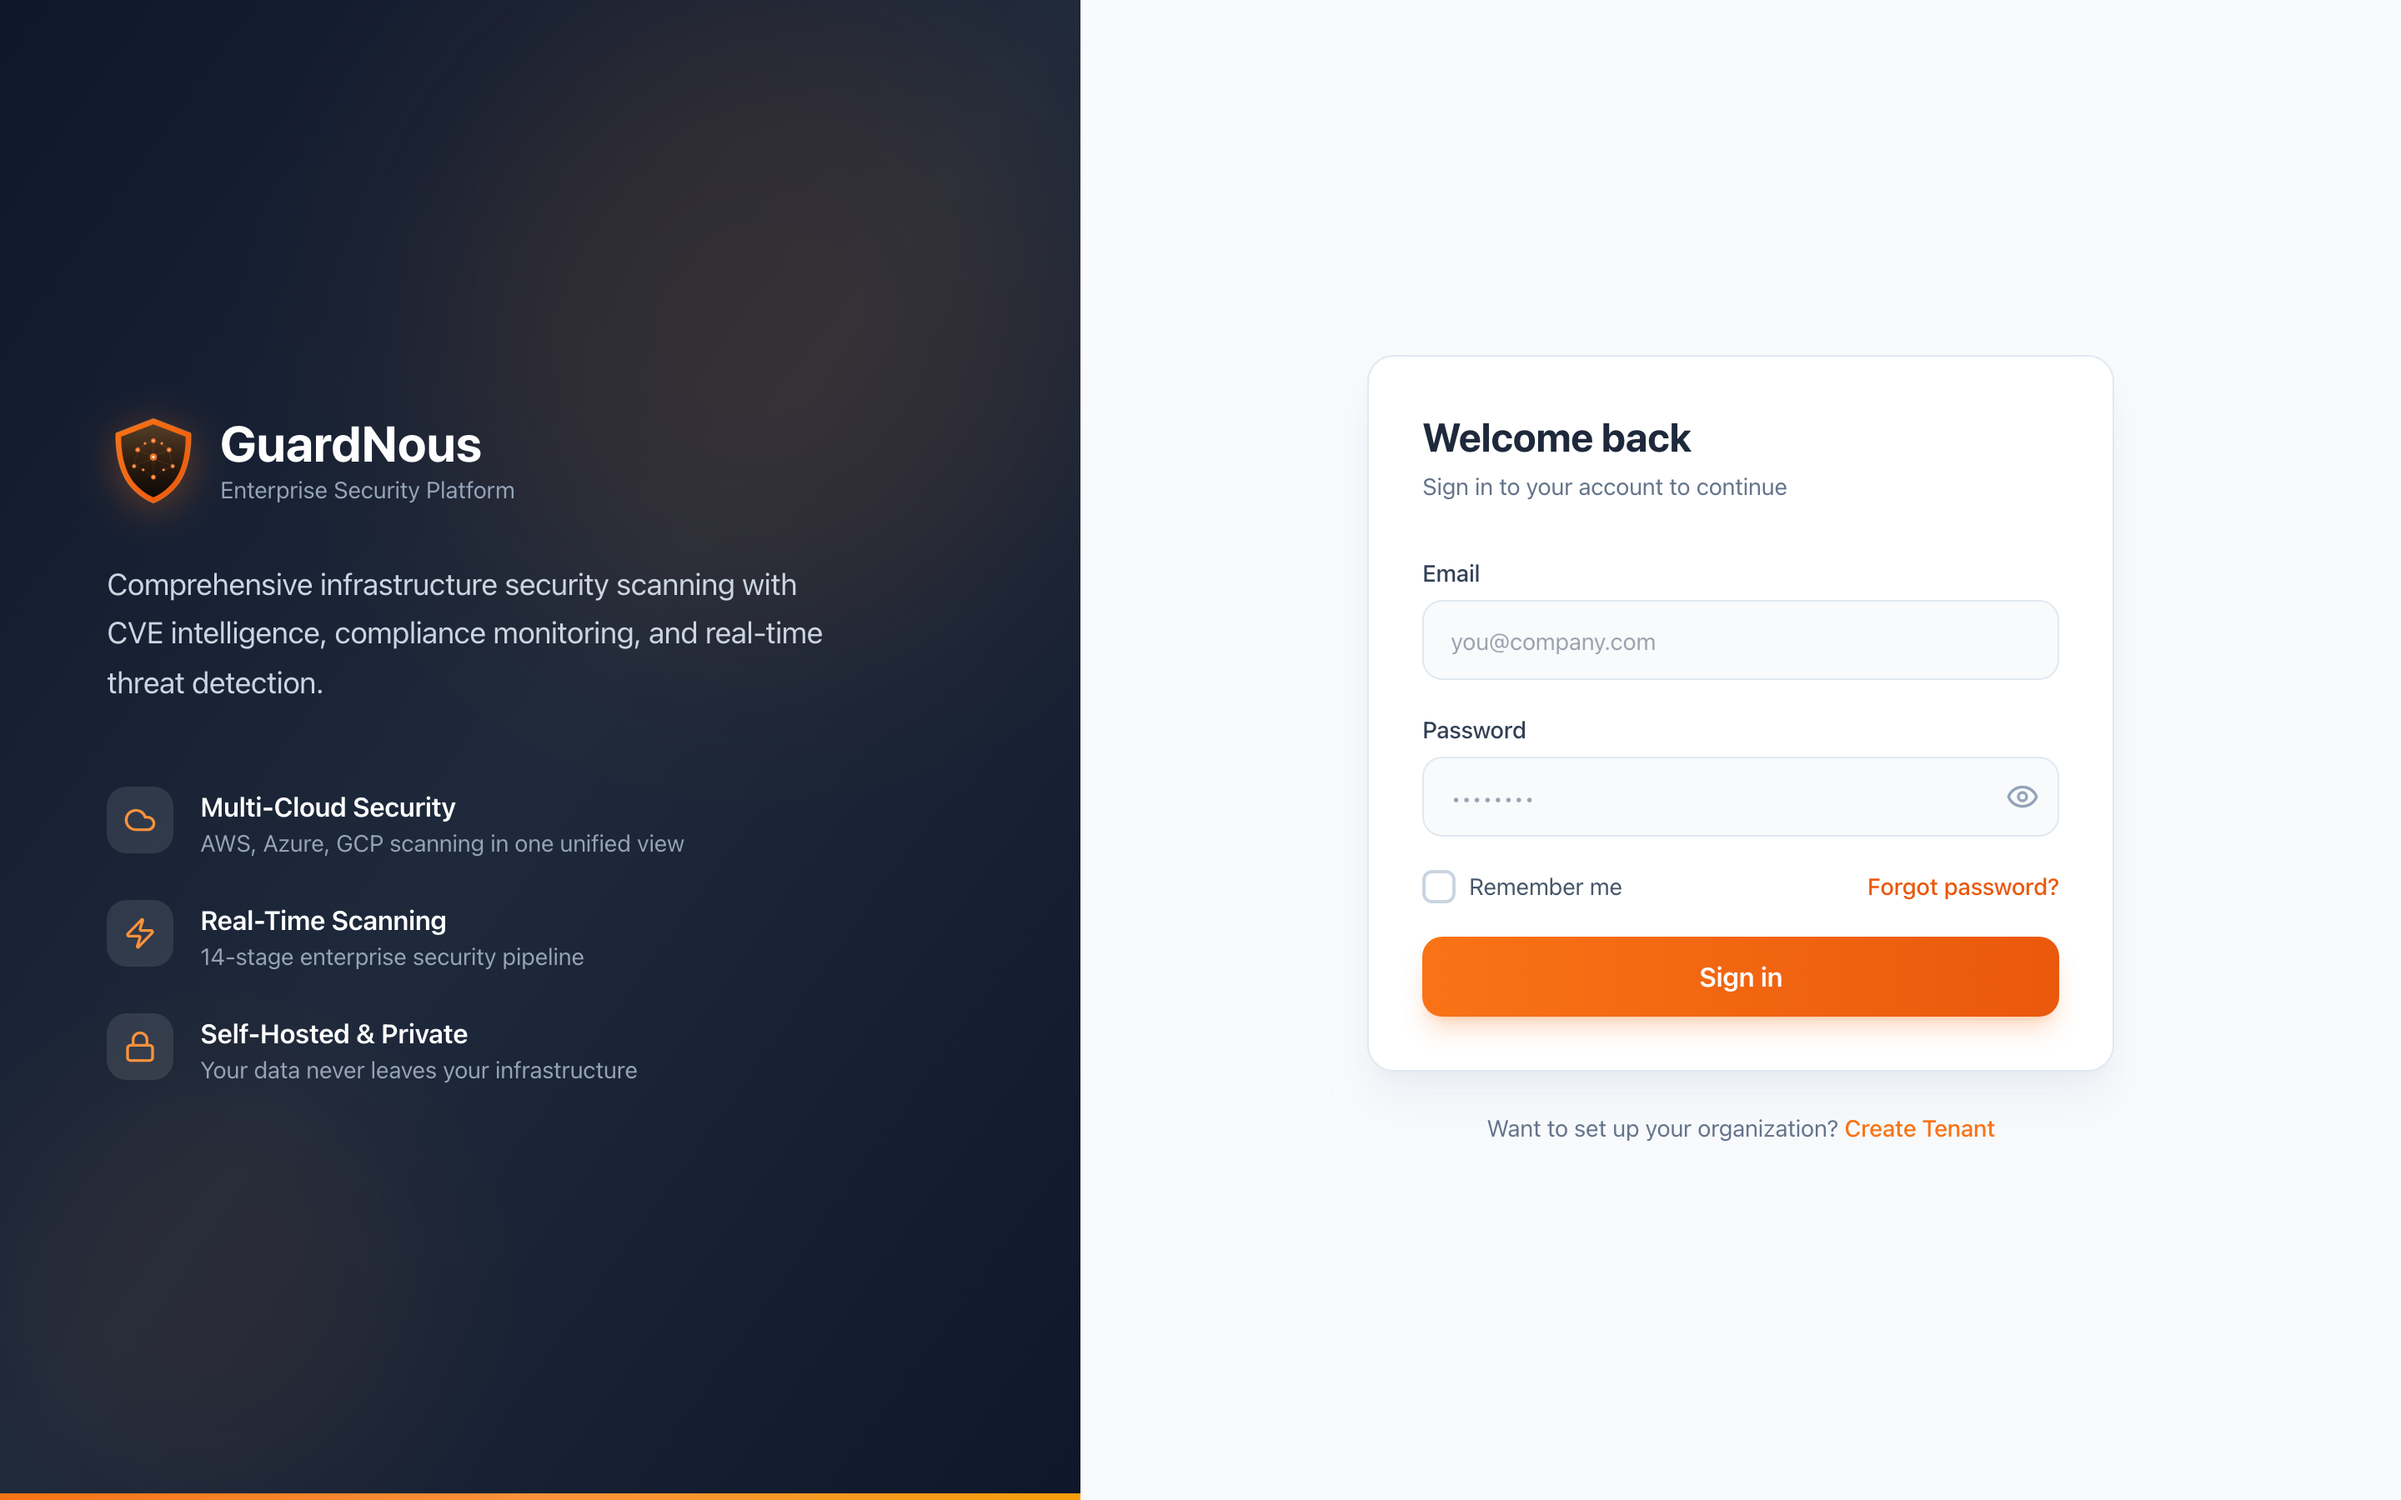
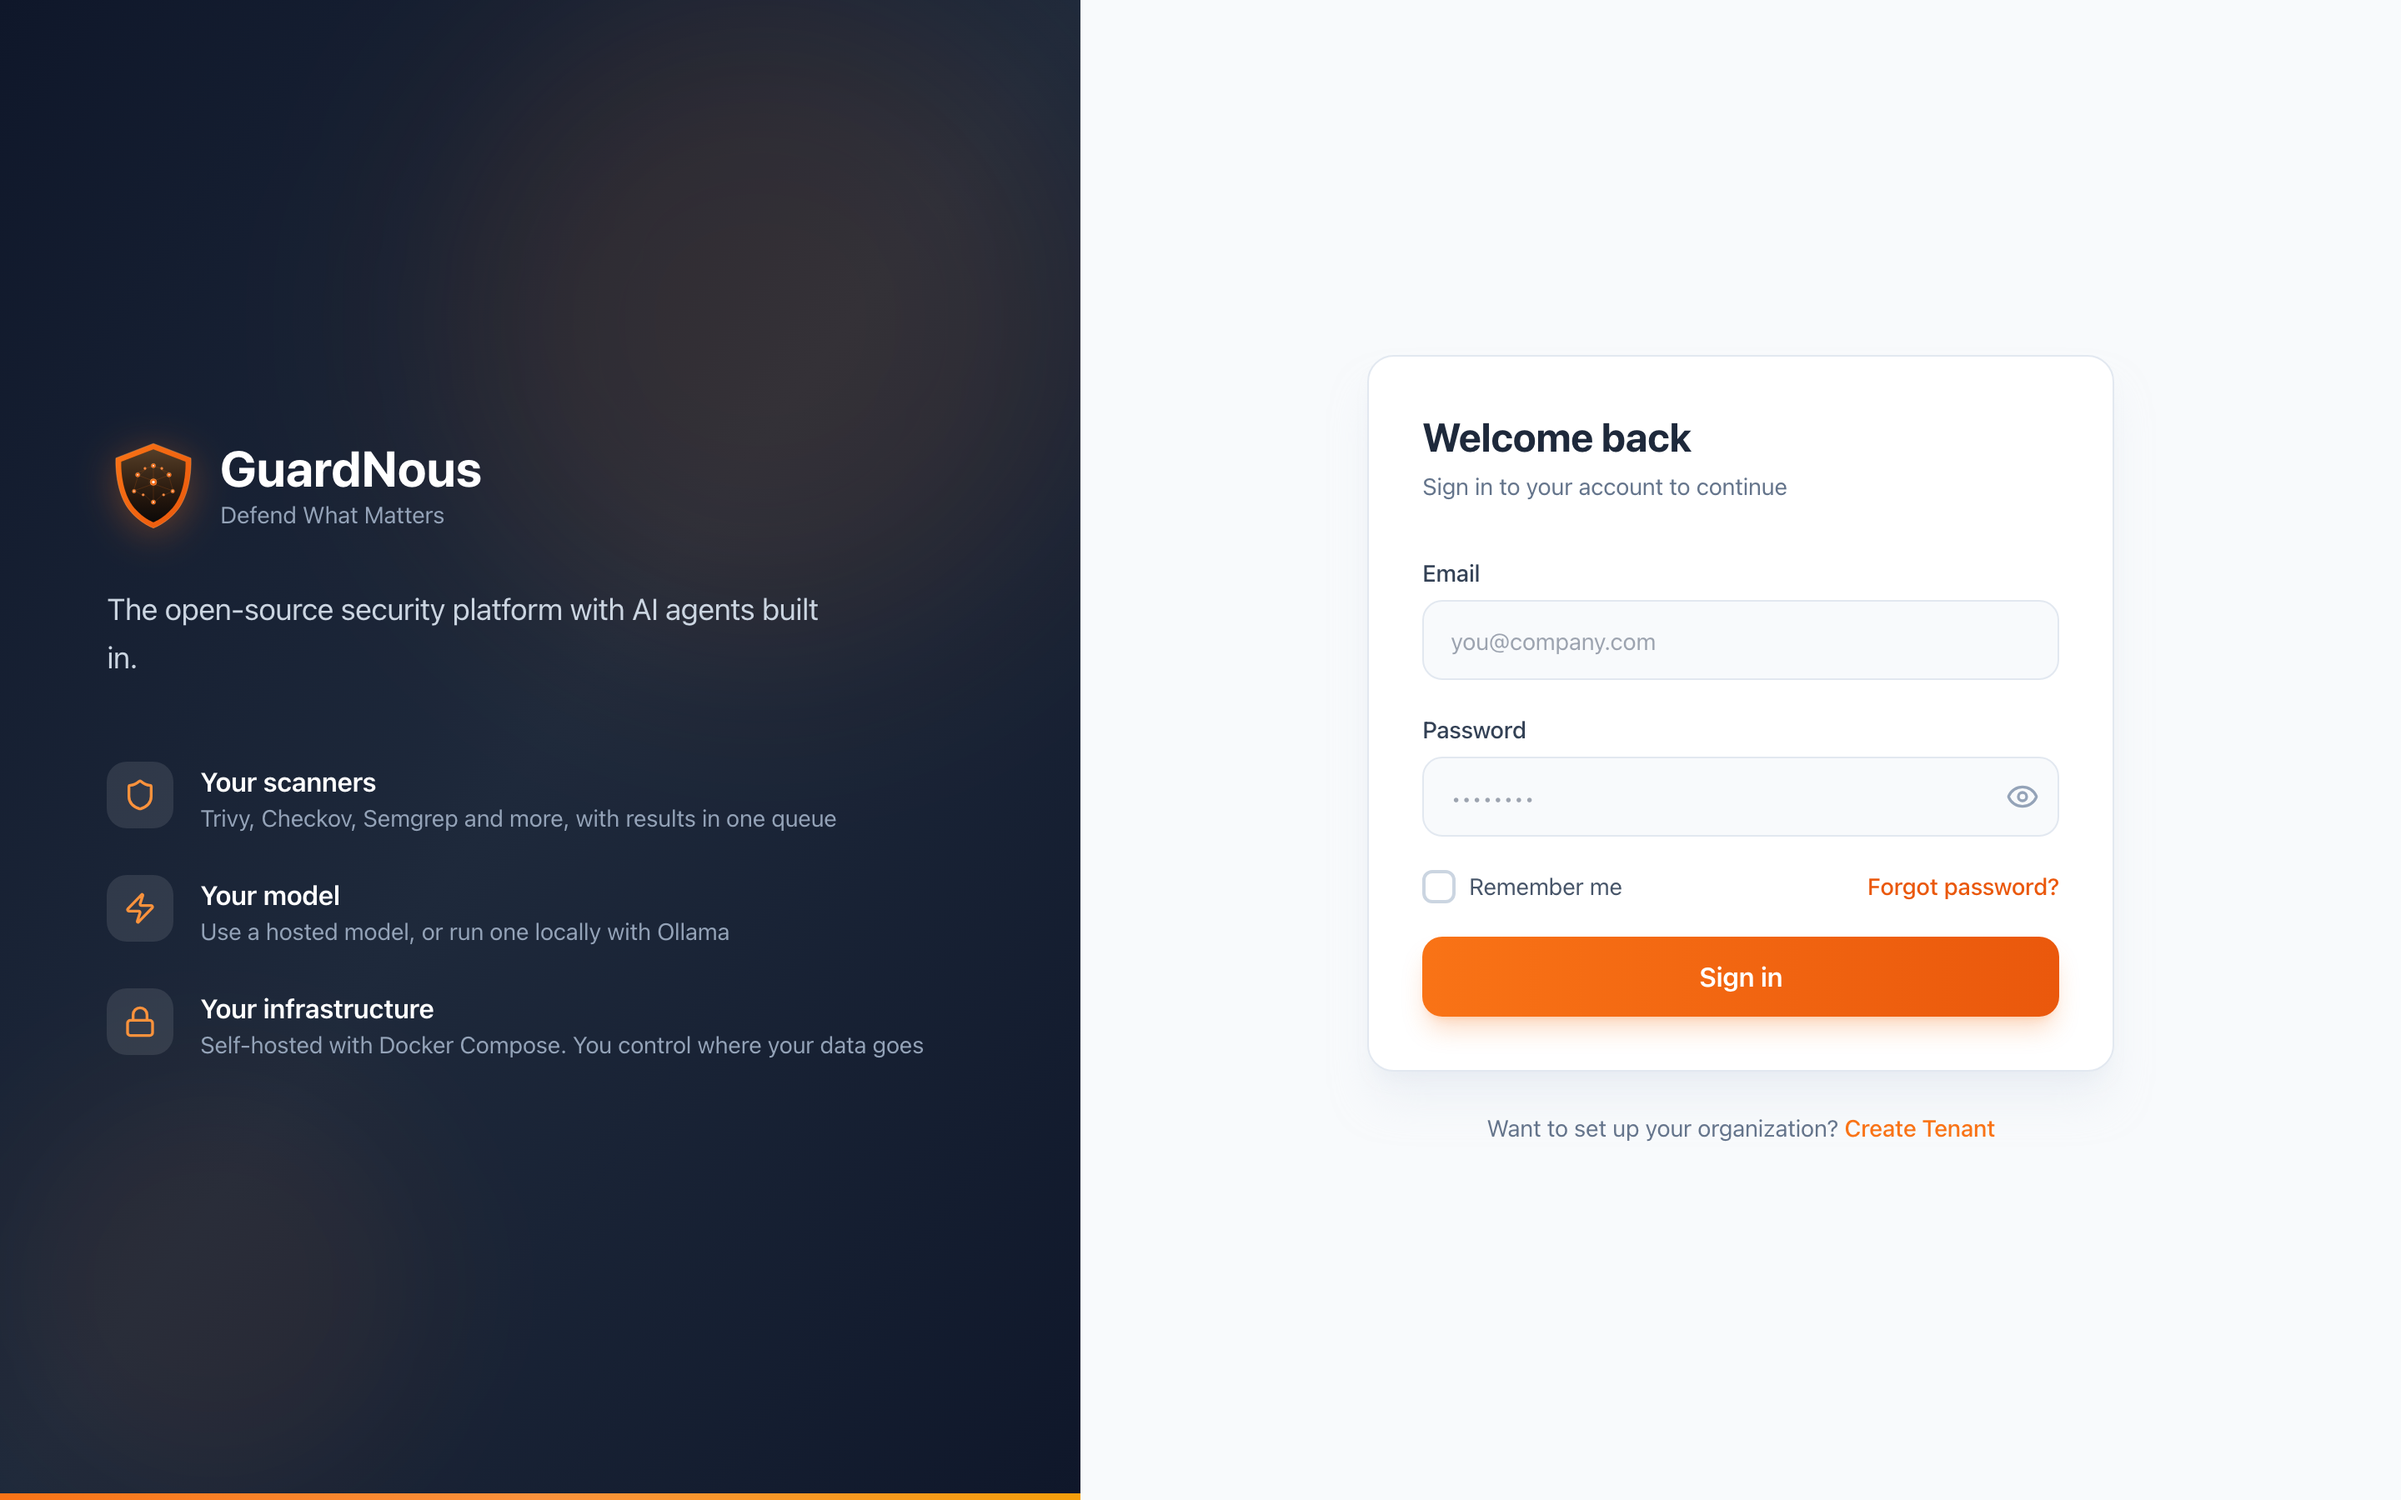
Honest sign-in page text; plugin switch and report counter fixes; retake three screenshots

Changed region(s): [[0.0312, 0.4978, 0.375, 0.7156], [0.0312, 0.28, 0.3438, 0.4667]]

diff --git a/frontend/src/app/login/page.tsx b/frontend/src/app/login/page.tsx
@@ -11,7 +11,6 @@ import {
   Eye,
   EyeOff,
   AlertCircle,
-  Cloud,
   Lock,
   Zap,
   Loader2,
@@ -24,9 +23,9 @@ import {
 } from "lucide-react";
 
 const FEATURES = [
-  { icon: Cloud, label: "Multi-Cloud Security", desc: "AWS, Azure, GCP scanning in one unified view" },
-  { icon: Zap, label: "Real-Time Scanning", desc: "14-stage enterprise security pipeline" },
-  { icon: Lock, label: "Self-Hosted & Private", desc: "Your data never leaves your infrastructure" },
+  { icon: Shield, label: "Your scanners", desc: "Trivy, Checkov, Semgrep and more, with results in one queue" },
+  { icon: Zap, label: "Your model", desc: "Use a hosted model, or run one locally with Ollama" },
+  { icon: Lock, label: "Your infrastructure", desc: "Self-hosted with Docker Compose. You control where your data goes" },
 ];
 
 export default function LoginPage() {
@@ -171,12 +170,12 @@ function LoginContent() {
             <img src="/logo.svg" alt="GuardNous" className="w-14 h-14 drop-shadow-[0_4px_12px_rgba(249,115,22,0.35)]" />
             <div>
               <h1 className="text-3xl font-bold text-white">GuardNous</h1>
-              <p className="text-sm text-slate-400">Enterprise Security Platform</p>
+              <p className="text-sm text-slate-400">Defend What Matters</p>
             </div>
           </div>
 
           <p className="text-lg text-slate-300 leading-relaxed mb-12 max-w-md">
-            Comprehensive infrastructure security scanning with CVE intelligence, compliance monitoring, and real-time threat detection.
+            The open-source security platform with AI agents built in.
           </p>
 
           <div className="space-y-6">

diff --git a/frontend/src/app/plugins/page.tsx b/frontend/src/app/plugins/page.tsx
@@ -685,15 +685,15 @@ export default function PluginsPage() {
                 className="bg-white dark:bg-slate-900 rounded-2xl border border-slate-200 dark:border-slate-800 p-6 text-left hover:shadow-lg hover:shadow-slate-200/50 dark:hover:shadow-slate-950/50 hover:border-orange-300 dark:hover:border-orange-700 transition-all group flex flex-col h-full"
               >
                 {/* Header */}
-                <div className="flex items-start justify-between mb-4">
-                  <div className="flex items-center gap-3">
+                <div className="flex items-start justify-between gap-3 mb-4">
+                  <div className="flex min-w-0 flex-1 items-center gap-3">
                     <div
-                      className={`w-11 h-11 rounded-xl bg-gradient-to-br ${gradient} flex items-center justify-center shadow-lg shadow-orange-500/10`}
+                      className={`w-11 h-11 shrink-0 rounded-xl bg-gradient-to-br ${gradient} flex items-center justify-center shadow-lg shadow-orange-500/10`}
                     >
                       <Icon className="w-5 h-5 text-white" />
                     </div>
                     <div className="min-w-0">
-                      <h3 className="text-sm font-semibold text-slate-900 dark:text-slate-100 truncate">
+                      <h3 className="text-sm font-semibold leading-snug text-slate-900 dark:text-slate-100 break-words">
                         {plugin.display_name}
                       </h3>
                       <span

diff --git a/frontend/src/app/reports/page.tsx b/frontend/src/app/reports/page.tsx
@@ -49,6 +49,14 @@ const REPORT_TYPE_CONFIG: Record<
   string,
   { label: string; icon: React.ElementType; bg: string; text: string; badge: string }
 > = {
+  // Written automatically at the end of every scan.
+  security: {
+    label: "Scan Reports",
+    icon: FileText,
+    bg: "bg-blue-50 dark:bg-blue-500/10",
+    text: "text-blue-600 dark:text-blue-400",
+    badge: "bg-blue-50 text-blue-700 dark:bg-blue-500/20 dark:text-blue-300",
+  },
   compliance: {
     label: "Compliance Reports",
     icon: ClipboardCheck,
@@ -210,12 +218,9 @@ export default function ReportsPage() {
   });
 
   const typeCounts = useMemo(() => {
-    const counts: Record<string, number> = {
-      compliance: 0,
-      vulnerability: 0,
-      executive: 0,
-      detailed: 0,
-    };
+    const counts: Record<string, number> = Object.fromEntries(
+      Object.keys(REPORT_TYPE_CONFIG).map((key) => [key, 0])
+    );
     reports.forEach((r) => {
       if (r.report_type in counts) counts[r.report_type]++;
     });
@@ -272,7 +277,7 @@ export default function ReportsPage() {
       ) : (
         <div className="space-y-6">
           {/* ── Report Type Overview Cards ── */}
-          <div className="grid grid-cols-1 sm:grid-cols-2 lg:grid-cols-4 gap-4">
+          <div className="grid grid-cols-1 sm:grid-cols-2 lg:grid-cols-3 xl:grid-cols-5 gap-4">
             {(Object.keys(REPORT_TYPE_CONFIG) as string[]).map((key) => {
               const cfg = REPORT_TYPE_CONFIG[key];
               const Icon = cfg.icon;

diff --git a/frontend/src/app/invite/[token]/page.tsx b/frontend/src/app/invite/[token]/page.tsx
@@ -181,7 +181,7 @@ export default function InviteAcceptPage() {
             </div>
             <div>
               <h1 className="text-3xl font-bold text-white">GuardNous</h1>
-              <p className="text-sm text-slate-400">Enterprise Security Platform</p>
+              <p className="text-sm text-slate-400">Defend What Matters</p>
             </div>
           </div>
 
